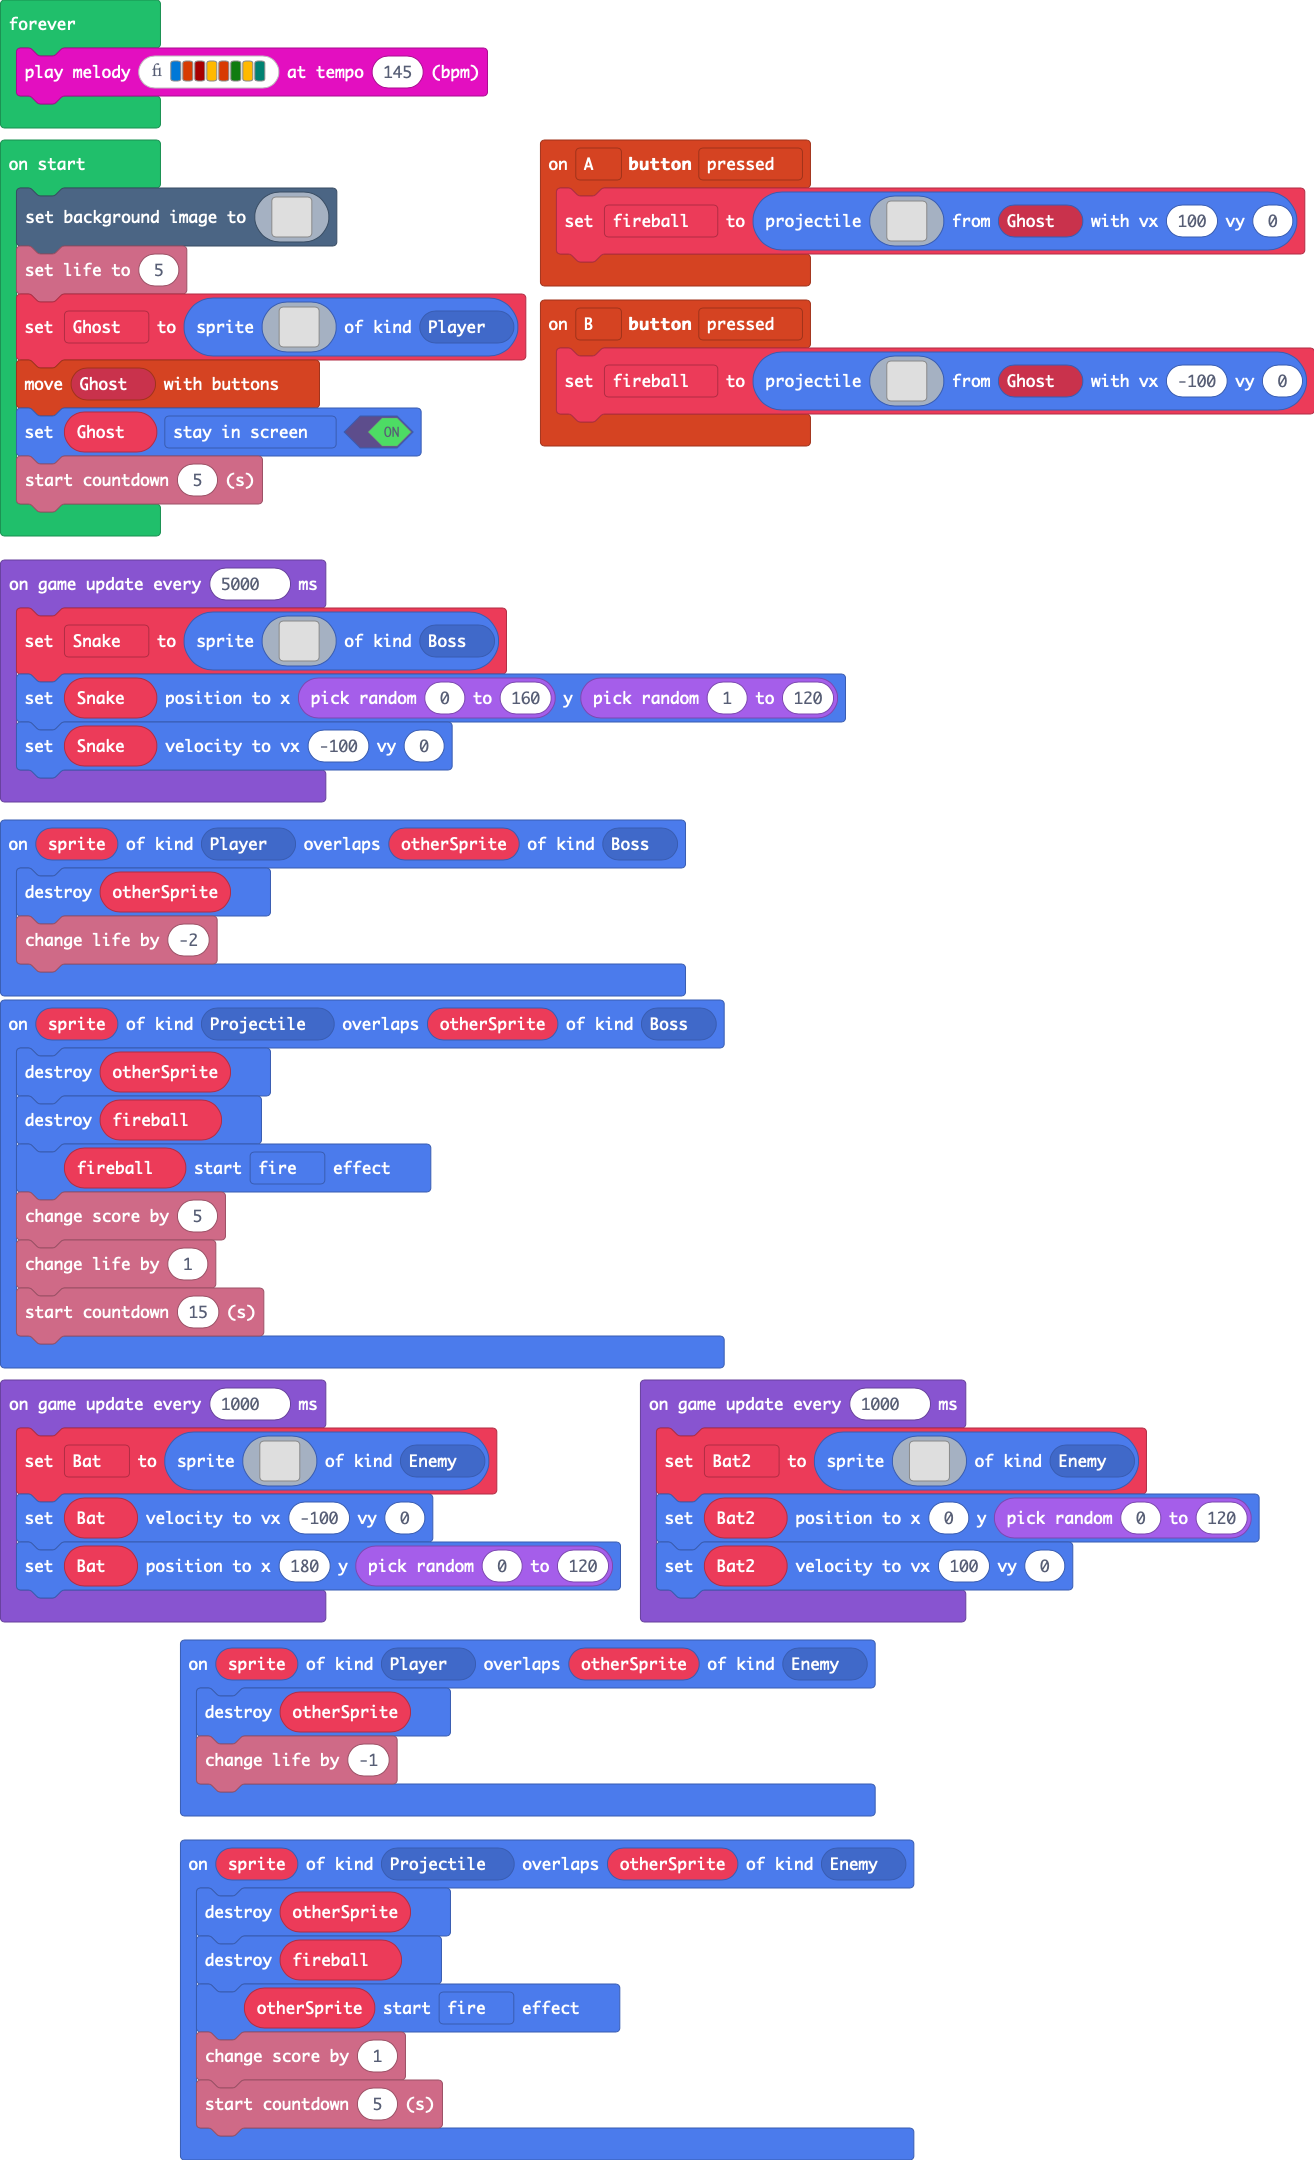
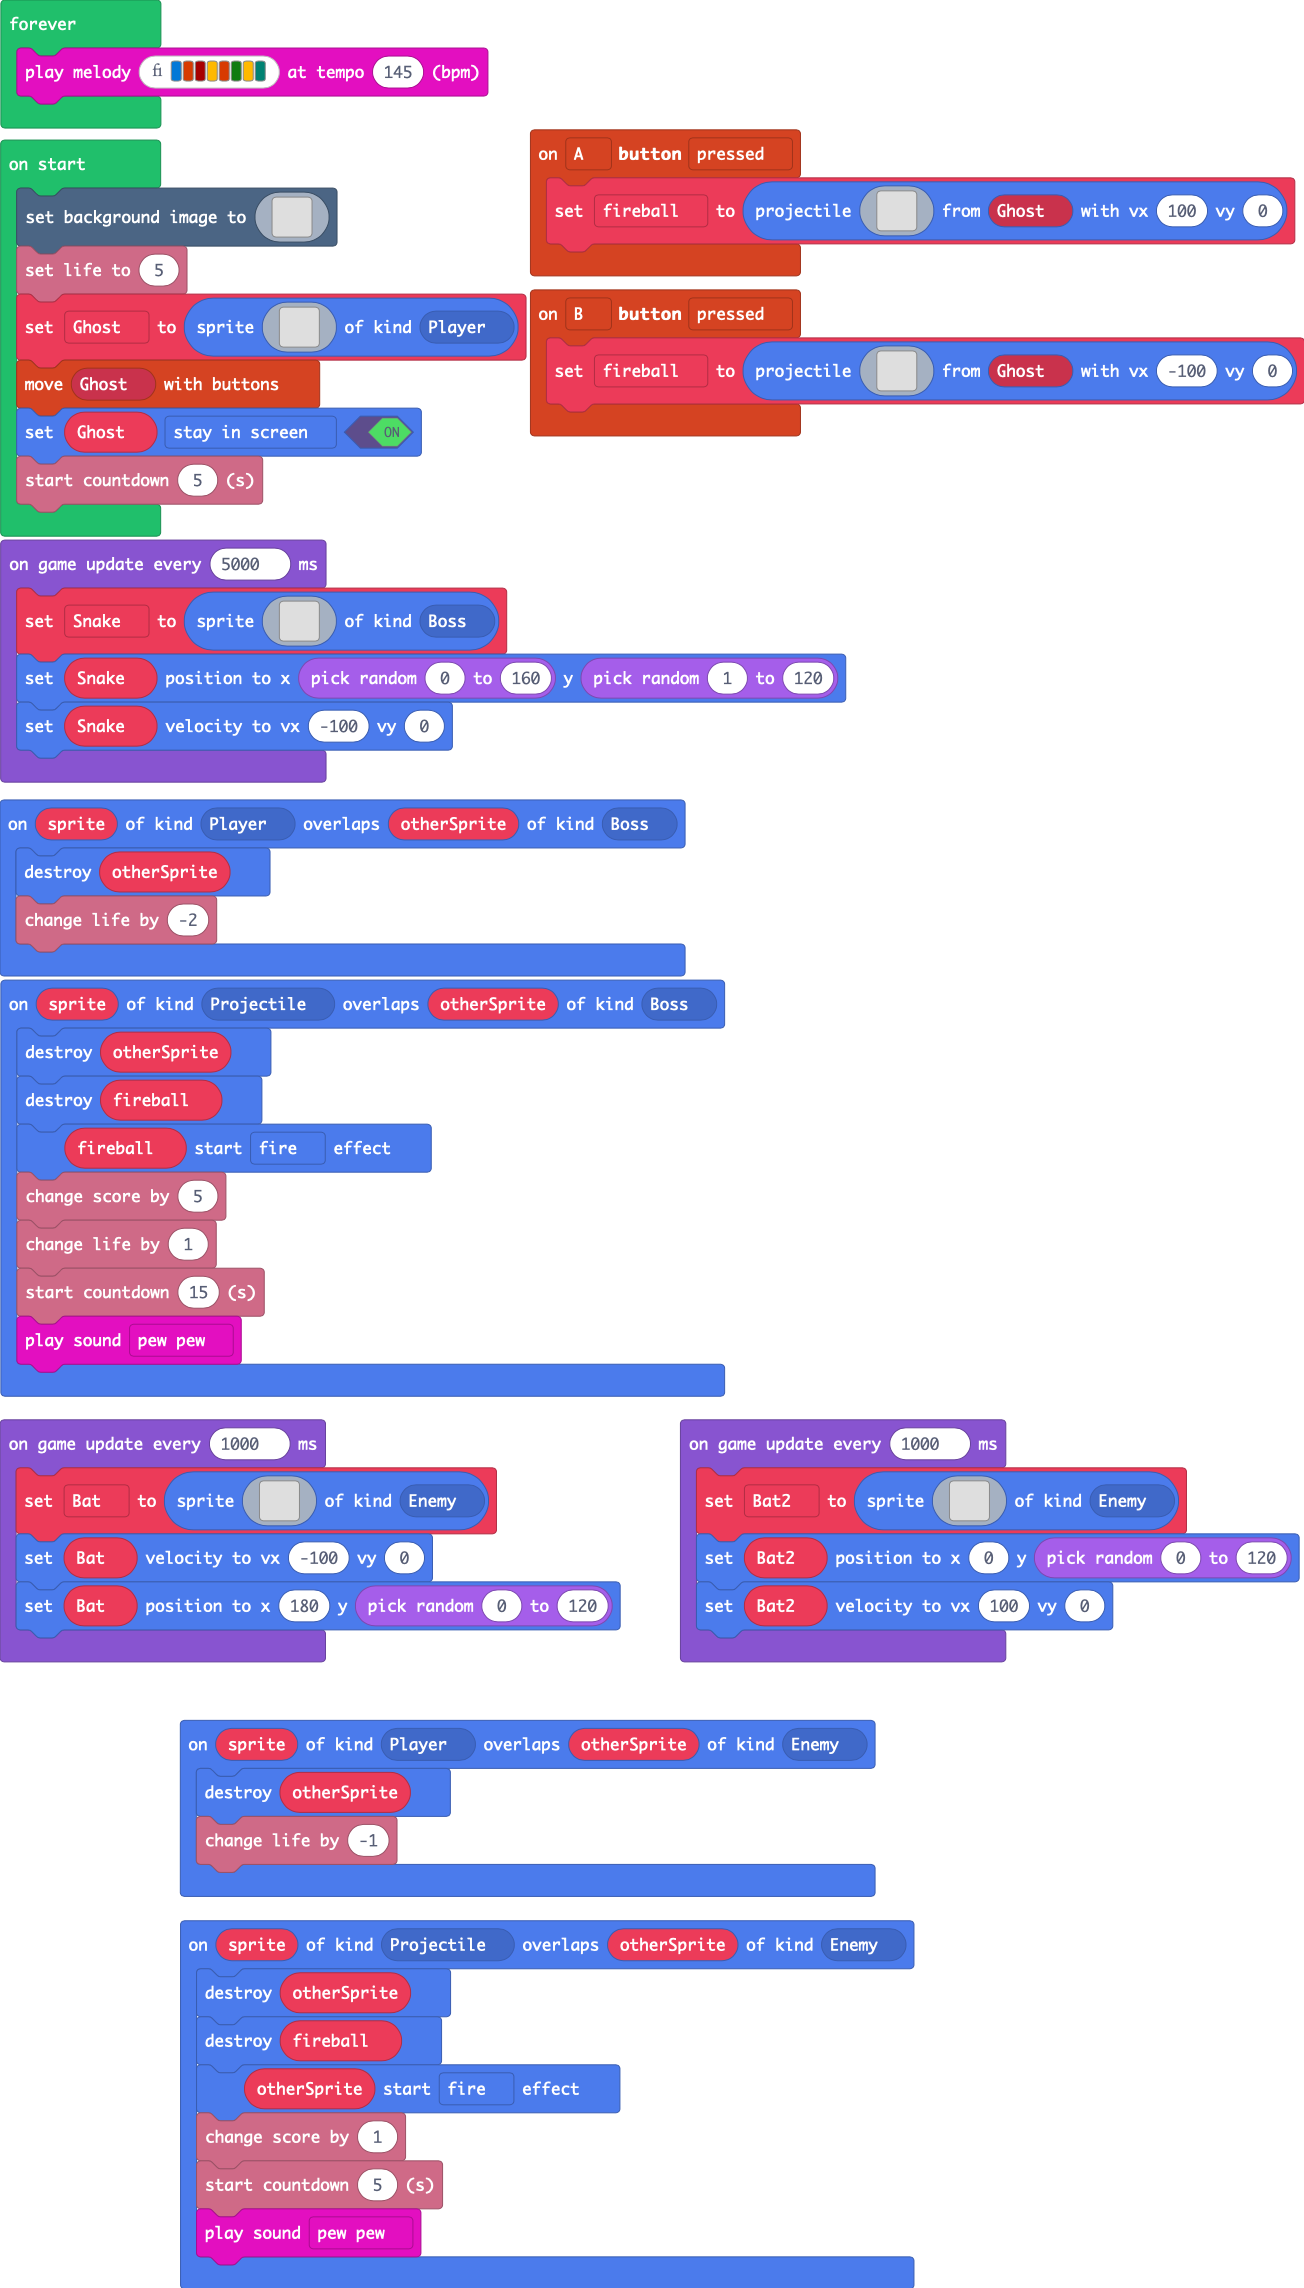
added sounds for deaths of bats and snakes

diff --git a/main.ts b/main.ts
@@ -33,6 +33,7 @@ sprites.onOverlap(SpriteKind.Projectile, SpriteKind.Boss, function (sprite, othe
     info.changeScoreBy(5)
     info.changeLifeBy(1)
     info.startCountdown(15)
+    music.pewPew.play()
 })
 controller.B.onEvent(ControllerButtonEvent.Pressed, function () {
     fireball = sprites.createProjectileFromSprite(img`
@@ -60,6 +61,7 @@ sprites.onOverlap(SpriteKind.Projectile, SpriteKind.Enemy, function (sprite, oth
     otherSprite.startEffect(effects.fire)
     info.changeScoreBy(1)
     info.startCountdown(5)
+    music.pewPew.play()
 })
 controller.A.onEvent(ControllerButtonEvent.Pressed, function () {
     fireball = sprites.createProjectileFromSprite(img`
